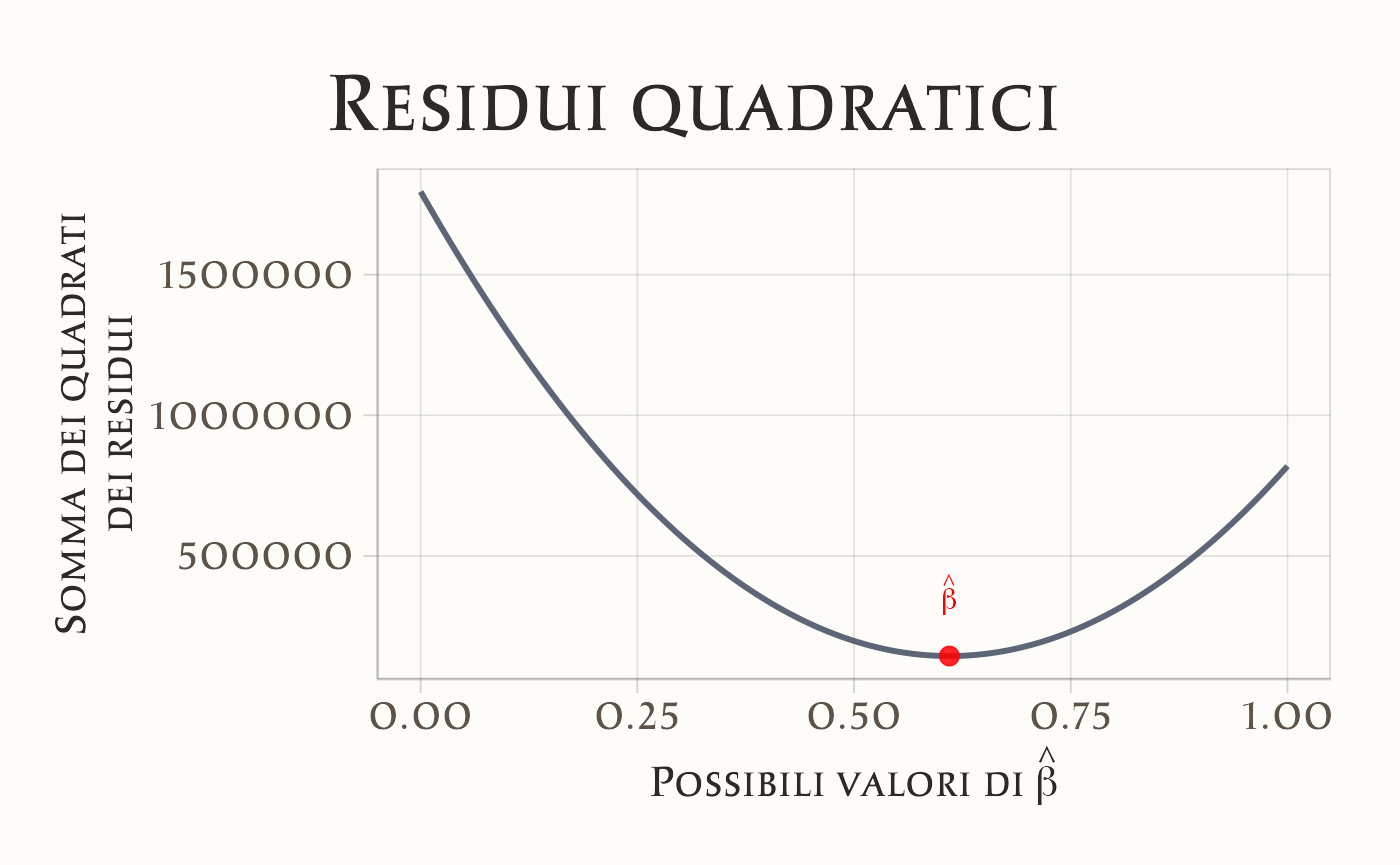
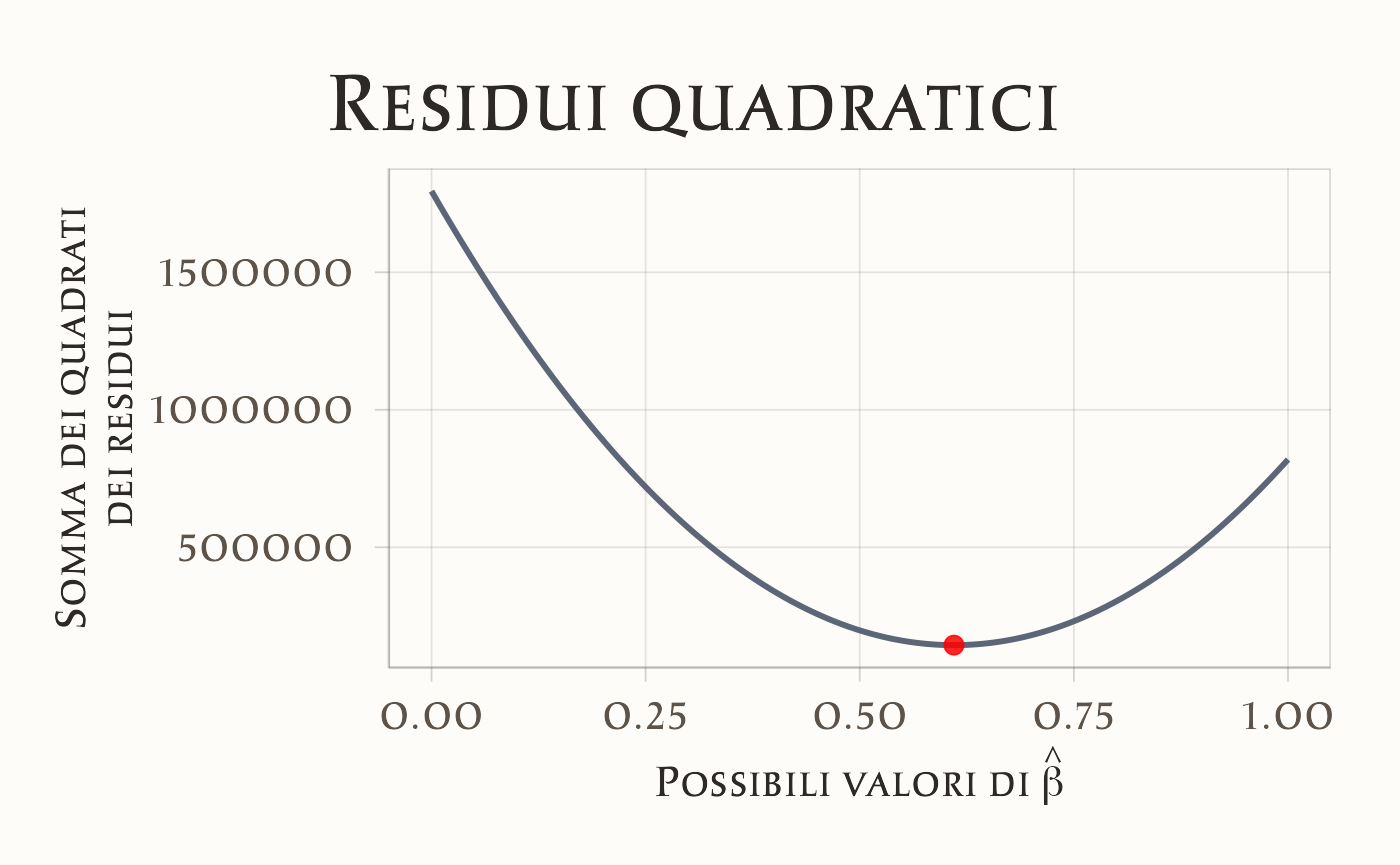
Update documentation

diff --git a/chapters/linear_models/01_reglin_frequentist.html b/chapters/linear_models/01_reglin_frequentist.html
@@ -494,6 +494,12 @@ window.Quarto = {
 </li>
           <li class="sidebar-item">
   <div class="sidebar-item-container"> 
+  <a href="../../chapters/linear_models/12_meas_error.html" class="sidebar-item-text sidebar-link">
+ <span class="menu-text"><span class="chapter-number">36</span>&nbsp; <span class="chapter-title">Errore di misurazione e attenuazione: una soluzione bayesiana</span></span></a>
+  </div>
+</li>
+          <li class="sidebar-item">
+  <div class="sidebar-item-container"> 
   <a href="../../chapters/linear_models/conclusions_sec.html" class="sidebar-item-text sidebar-link">
  <span class="menu-text">Riflessioni conclusive della sezione</span></a>
   </div>
@@ -518,37 +524,37 @@ window.Quarto = {
           <li class="sidebar-item">
   <div class="sidebar-item-container"> 
   <a href="../../chapters/glm/01_logistic_regr.html" class="sidebar-item-text sidebar-link">
- <span class="menu-text"><span class="chapter-number">36</span>&nbsp; <span class="chapter-title">Regressione logistica con Stan</span></span></a>
+ <span class="menu-text"><span class="chapter-number">37</span>&nbsp; <span class="chapter-title">Regressione logistica con Stan</span></span></a>
   </div>
 </li>
           <li class="sidebar-item">
   <div class="sidebar-item-container"> 
   <a href="../../chapters/glm/02_one_proportion.html" class="sidebar-item-text sidebar-link">
- <span class="menu-text"><span class="chapter-number">37</span>&nbsp; <span class="chapter-title">Inferenza sulle proporzioni</span></span></a>
+ <span class="menu-text"><span class="chapter-number">38</span>&nbsp; <span class="chapter-title">Inferenza sulle proporzioni</span></span></a>
   </div>
 </li>
           <li class="sidebar-item">
   <div class="sidebar-item-container"> 
   <a href="../../chapters/glm/03_two_proportions.html" class="sidebar-item-text sidebar-link">
- <span class="menu-text"><span class="chapter-number">38</span>&nbsp; <span class="chapter-title">Confronto tra due proporzioni con la regressione logistica</span></span></a>
+ <span class="menu-text"><span class="chapter-number">39</span>&nbsp; <span class="chapter-title">Confronto tra due proporzioni con la regressione logistica</span></span></a>
   </div>
 </li>
           <li class="sidebar-item">
   <div class="sidebar-item-container"> 
   <a href="../../chapters/glm/04_poisson_model.html" class="sidebar-item-text sidebar-link">
- <span class="menu-text"><span class="chapter-number">39</span>&nbsp; <span class="chapter-title">Modello di Poisson</span></span></a>
+ <span class="menu-text"><span class="chapter-number">40</span>&nbsp; <span class="chapter-title">Modello di Poisson</span></span></a>
   </div>
 </li>
           <li class="sidebar-item">
   <div class="sidebar-item-container"> 
   <a href="../../chapters/glm/05_logistic_process.html" class="sidebar-item-text sidebar-link">
- <span class="menu-text"><span class="chapter-number">40</span>&nbsp; <span class="chapter-title">Dal GLM a un modello processuale per dati binari</span></span></a>
+ <span class="menu-text"><span class="chapter-number">41</span>&nbsp; <span class="chapter-title">Dal GLM a un modello processuale per dati binari</span></span></a>
   </div>
 </li>
           <li class="sidebar-item">
   <div class="sidebar-item-container"> 
   <a href="../../chapters/glm/06_missing_values.html" class="sidebar-item-text sidebar-link">
- <span class="menu-text"><span class="chapter-number">41</span>&nbsp; <span class="chapter-title">Dati mancanti in psicologia</span></span></a>
+ <span class="menu-text"><span class="chapter-number">42</span>&nbsp; <span class="chapter-title">Dati mancanti in psicologia</span></span></a>
   </div>
 </li>
           <li class="sidebar-item">
@@ -577,19 +583,19 @@ window.Quarto = {
           <li class="sidebar-item">
   <div class="sidebar-item-container"> 
   <a href="../../chapters/entropy/01_entropy.html" class="sidebar-item-text sidebar-link">
- <span class="menu-text"><span class="chapter-number">42</span>&nbsp; <span class="chapter-title">Entropia e informazione di Shannon</span></span></a>
+ <span class="menu-text"><span class="chapter-number">43</span>&nbsp; <span class="chapter-title">Entropia e informazione di Shannon</span></span></a>
   </div>
 </li>
           <li class="sidebar-item">
   <div class="sidebar-item-container"> 
   <a href="../../chapters/entropy/02_kl.html" class="sidebar-item-text sidebar-link">
- <span class="menu-text"><span class="chapter-number">43</span>&nbsp; <span class="chapter-title">La divergenza di Kullback-Leibler</span></span></a>
+ <span class="menu-text"><span class="chapter-number">44</span>&nbsp; <span class="chapter-title">La divergenza di Kullback-Leibler</span></span></a>
   </div>
 </li>
           <li class="sidebar-item">
   <div class="sidebar-item-container"> 
   <a href="../../chapters/entropy/03_model_comparison.html" class="sidebar-item-text sidebar-link">
- <span class="menu-text"><span class="chapter-number">44</span>&nbsp; <span class="chapter-title">Valutare i modelli bayesiani</span></span></a>
+ <span class="menu-text"><span class="chapter-number">45</span>&nbsp; <span class="chapter-title">Valutare i modelli bayesiani</span></span></a>
   </div>
 </li>
           <li class="sidebar-item">
@@ -618,25 +624,25 @@ window.Quarto = {
           <li class="sidebar-item">
   <div class="sidebar-item-container"> 
   <a href="../../chapters/formal_models/01_dynamic_models.html" class="sidebar-item-text sidebar-link">
- <span class="menu-text"><span class="chapter-number">45</span>&nbsp; <span class="chapter-title">Il modello di revisione degli obiettivi</span></span></a>
+ <span class="menu-text"><span class="chapter-number">46</span>&nbsp; <span class="chapter-title">Il modello di revisione degli obiettivi</span></span></a>
   </div>
 </li>
           <li class="sidebar-item">
   <div class="sidebar-item-container"> 
   <a href="../../chapters/formal_models/02_dynamic_models.html" class="sidebar-item-text sidebar-link">
- <span class="menu-text"><span class="chapter-number">46</span>&nbsp; <span class="chapter-title">Estensioni</span></span></a>
+ <span class="menu-text"><span class="chapter-number">47</span>&nbsp; <span class="chapter-title">Estensioni</span></span></a>
   </div>
 </li>
           <li class="sidebar-item">
   <div class="sidebar-item-container"> 
   <a href="../../chapters/formal_models/03_rescorla_wagner.html" class="sidebar-item-text sidebar-link">
- <span class="menu-text"><span class="chapter-number">47</span>&nbsp; <span class="chapter-title">Il modello di Rescorla–Wagner</span></span></a>
+ <span class="menu-text"><span class="chapter-number">48</span>&nbsp; <span class="chapter-title">Il modello di Rescorla–Wagner</span></span></a>
   </div>
 </li>
           <li class="sidebar-item">
   <div class="sidebar-item-container"> 
   <a href="../../chapters/formal_models/04_study_method.html" class="sidebar-item-text sidebar-link">
- <span class="menu-text"><span class="chapter-number">48</span>&nbsp; <span class="chapter-title">Decisione ottimale e utilità attesa: l’approccio bayesiano</span></span></a>
+ <span class="menu-text"><span class="chapter-number">49</span>&nbsp; <span class="chapter-title">Decisione ottimale e utilità attesa: l’approccio bayesiano</span></span></a>
   </div>
 </li>
           <li class="sidebar-item">
@@ -665,49 +671,49 @@ window.Quarto = {
           <li class="sidebar-item">
   <div class="sidebar-item-container"> 
   <a href="../../chapters/replication_crisis/01_crisis.html" class="sidebar-item-text sidebar-link">
- <span class="menu-text"><span class="chapter-number">49</span>&nbsp; <span class="chapter-title">La crisi della replicazione</span></span></a>
+ <span class="menu-text"><span class="chapter-number">50</span>&nbsp; <span class="chapter-title">La crisi della replicazione</span></span></a>
   </div>
 </li>
           <li class="sidebar-item">
   <div class="sidebar-item-container"> 
   <a href="../../chapters/replication_crisis/02_limits_stat_freq.html" class="sidebar-item-text sidebar-link">
- <span class="menu-text"><span class="chapter-number">50</span>&nbsp; <span class="chapter-title">Limiti dell’inferenza frequentista</span></span></a>
+ <span class="menu-text"><span class="chapter-number">51</span>&nbsp; <span class="chapter-title">Limiti dell’inferenza frequentista</span></span></a>
   </div>
 </li>
           <li class="sidebar-item">
   <div class="sidebar-item-container"> 
   <a href="../../chapters/replication_crisis/03_effect_size.html" class="sidebar-item-text sidebar-link">
- <span class="menu-text"><span class="chapter-number">51</span>&nbsp; <span class="chapter-title">La grandezza dell’effetto</span></span></a>
+ <span class="menu-text"><span class="chapter-number">52</span>&nbsp; <span class="chapter-title">La grandezza dell’effetto</span></span></a>
   </div>
 </li>
           <li class="sidebar-item">
   <div class="sidebar-item-container"> 
   <a href="../../chapters/replication_crisis/04_s_m_errors.html" class="sidebar-item-text sidebar-link">
- <span class="menu-text"><span class="chapter-number">52</span>&nbsp; <span class="chapter-title">Errori di segno e errori di grandezza</span></span></a>
+ <span class="menu-text"><span class="chapter-number">53</span>&nbsp; <span class="chapter-title">Errori di segno e errori di grandezza</span></span></a>
   </div>
 </li>
           <li class="sidebar-item">
   <div class="sidebar-item-container"> 
   <a href="../../chapters/replication_crisis/05_p_values.html" class="sidebar-item-text sidebar-link">
- <span class="menu-text"><span class="chapter-number">53</span>&nbsp; <span class="chapter-title">La fragilità del <em>p</em>-valore</span></span></a>
+ <span class="menu-text"><span class="chapter-number">54</span>&nbsp; <span class="chapter-title">La fragilità del <em>p</em>-valore</span></span></a>
   </div>
 </li>
           <li class="sidebar-item">
   <div class="sidebar-item-container"> 
   <a href="../../chapters/replication_crisis/06_changes.html" class="sidebar-item-text sidebar-link">
- <span class="menu-text"><span class="chapter-number">54</span>&nbsp; <span class="chapter-title">Riforma</span></span></a>
+ <span class="menu-text"><span class="chapter-number">55</span>&nbsp; <span class="chapter-title">Riforma</span></span></a>
   </div>
 </li>
           <li class="sidebar-item">
   <div class="sidebar-item-container"> 
   <a href="../../chapters/replication_crisis/07_degrees_of_freedom.html" class="sidebar-item-text sidebar-link">
- <span class="menu-text"><span class="chapter-number">55</span>&nbsp; <span class="chapter-title">I gradi di libertà del ricercatore</span></span></a>
+ <span class="menu-text"><span class="chapter-number">56</span>&nbsp; <span class="chapter-title">I gradi di libertà del ricercatore</span></span></a>
   </div>
 </li>
           <li class="sidebar-item">
   <div class="sidebar-item-container"> 
   <a href="../../chapters/replication_crisis/08_integrity.html" class="sidebar-item-text sidebar-link">
- <span class="menu-text"><span class="chapter-number">56</span>&nbsp; <span class="chapter-title">Integrità della ricerca</span></span></a>
+ <span class="menu-text"><span class="chapter-number">57</span>&nbsp; <span class="chapter-title">Integrità della ricerca</span></span></a>
   </div>
 </li>
       </ul>
@@ -1004,8 +1010,7 @@ y_i = a + b x_i + e_i, \quad i = 1, \dots, n,
 <div class="cell" data-layout-align="center">
 <div class="sourceCode" id="cb4"><pre class="downlit sourceCode r code-with-copy"><code class="sourceCode R"><span><span class="fu">ggplot</span><span class="op">(</span><span class="va">kidiq</span>, <span class="fu">aes</span><span class="op">(</span>x <span class="op">=</span> <span class="va">mom_iq</span>, y <span class="op">=</span> <span class="va">kid_score</span><span class="op">)</span><span class="op">)</span> <span class="op">+</span></span>
 <span>  <span class="fu">geom_point</span><span class="op">(</span>alpha <span class="op">=</span> <span class="fl">0.6</span><span class="op">)</span> <span class="op">+</span></span>
-<span>  <span class="fu">labs</span><span class="op">(</span>x <span class="op">=</span> <span class="st">"QI della madre"</span>, y <span class="op">=</span> <span class="st">"QI del bambino"</span><span class="op">)</span> <span class="op">+</span></span>
-<span>  <span class="fu">ggtitle</span><span class="op">(</span><span class="st">"Diagramma a dispersione"</span><span class="op">)</span> </span></code><button title="Copia negli appunti" class="code-copy-button"><i class="bi"></i></button></pre></div>
+<span>  <span class="fu">labs</span><span class="op">(</span>x <span class="op">=</span> <span class="st">"QI della madre"</span>, y <span class="op">=</span> <span class="st">"QI del bambino"</span><span class="op">)</span></span></code><button title="Copia negli appunti" class="code-copy-button"><i class="bi"></i></button></pre></div>
 <div class="cell-output-display">
 <div class="quarto-figure quarto-figure-center">
 <figure class="figure"><p><img src="01_reglin_frequentist_files/figure-html/unnamed-chunk-4-1.png" class="img-fluid quarto-figure quarto-figure-center figure-img" style="width:85.0%"></p>
@@ -1062,8 +1067,7 @@ x_n &amp; y_n \\
 <p>Per ciascuna coppia di valori <span class="math inline">\(x_i, y_i\)</span>, il modello di regressione si aspetta che il valore <span class="math inline">\(y_i\)</span> sia associato al corrispondente valore <span class="math inline">\(x_i\)</span> come indicato dalla seguente equazione</p>
 <p><span id="eq-reglin-exp-val"><span class="math display">\[
 \mathbb{E}(y_i) = a + b x_i ,
-\tag{25.1}\]</span></span></p>
-<p> ovvero:</p>
+\tag{25.1}\]</span></span> ovvero:</p>
 <p><span class="math display">\[
 \begin{array}{ccc}
 \hline
@@ -1076,8 +1080,7 @@ x_3 &amp; y_3 &amp; a + b x_3 \\
 x_n &amp; y_n &amp; a + b x_n \\
 \hline
 \end{array}
-\]</span></p>
-<p>I valori <span class="math inline">\(y_i\)</span> corrispondono, nell’esempio che stiamo discutendo, alla variabile <code>kid_score</code>. I primi 10 valori della variabile <span class="math inline">\(y\)</span> sono i seguenti:</p>
+\]</span> I valori <span class="math inline">\(y_i\)</span> corrispondono, nell’esempio che stiamo discutendo, alla variabile <code>kid_score</code>. I primi 10 valori della variabile <span class="math inline">\(y\)</span> sono i seguenti:</p>
 <div class="cell" data-layout-align="center">
 <div class="sourceCode" id="cb5"><pre class="downlit sourceCode r code-with-copy"><code class="sourceCode R"><span><span class="va">kidiq</span><span class="op">$</span><span class="va">kid_score</span><span class="op">[</span><span class="fl">0</span><span class="op">:</span><span class="fl">10</span><span class="op">]</span></span>
 <span><span class="co">#&gt;  [1]  65  98  85  83 115  98  69 106 102  95</span></span></code><button title="Copia negli appunti" class="code-copy-button"><i class="bi"></i></button></pre></div>
@@ -1125,7 +1128,7 @@ x_n &amp; y_n &amp; a + b x_n \\
 <span>  <span class="fu">annotate</span><span class="op">(</span></span>
 <span>    <span class="st">"point"</span>, </span>
 <span>    x <span class="op">=</span> <span class="va">mean_x</span>, y <span class="op">=</span> <span class="va">mean_y</span>,</span>
-<span>    color <span class="op">=</span> <span class="va">css_palette</span><span class="op">$</span><span class="va">illumination_blue</span>,</span>
+<span>    color <span class="op">=</span> <span class="st">"steelblue"</span>,</span>
 <span>    size <span class="op">=</span> <span class="fl">4.5</span>, shape <span class="op">=</span> <span class="fl">4</span>, stroke <span class="op">=</span> <span class="fl">2.2</span></span>
 <span>  <span class="op">)</span> <span class="op">+</span></span>
 <span>  <span class="fu">labs</span><span class="op">(</span></span>
@@ -1200,7 +1203,8 @@ b = \frac{\mathrm{Cov}(x, y)}{\mathrm{Var}(x)}, \quad a = \bar{y} - b \,\bar{x} 
 <li>La pendenza <span class="math inline">\(b\)</span> quantifica la variazione media di <span class="math inline">\(y\)</span> per un’unità di incremento di <span class="math inline">\(x\)</span>.</li>
 <li>L’intercetta <span class="math inline">\(a\)</span> è il valore previsto di <span class="math inline">\(y\)</span> quando <span class="math inline">\(x=0\)</span> (interpretazione utile solo se <span class="math inline">\(x=0\)</span> è significativo).</li>
 </ol>
-<p><span class="sottopasso">Esempio in R<span></span></span></p>
+<section id="esempio-in-r" class="level3" data-number="25.5.1"><h3 data-number="25.5.1" class="anchored" data-anchor-id="esempio-in-r">
+<span class="header-section-number">25.5.1</span> Esempio in R</h3>
 <div class="cell" data-layout-align="center">
 <div class="sourceCode" id="cb12"><pre class="downlit sourceCode r code-with-copy"><code class="sourceCode R"><span><span class="va">cov_xy</span> <span class="op">&lt;-</span> <span class="fu"><a href="https://rdrr.io/r/stats/cor.html">cov</a></span><span class="op">(</span><span class="va">kidiq</span><span class="op">$</span><span class="va">kid_score</span>, <span class="va">kidiq</span><span class="op">$</span><span class="va">xd</span><span class="op">)</span></span>
 <span><span class="va">var_x</span>  <span class="op">&lt;-</span> <span class="fu"><a href="https://rdrr.io/r/stats/cor.html">var</a></span><span class="op">(</span><span class="va">kidiq</span><span class="op">$</span><span class="va">xd</span><span class="op">)</span></span>
@@ -1211,8 +1215,8 @@ b = \frac{\mathrm{Cov}(x, y)}{\mathrm{Var}(x)}, \quad a = \bar{y} - b \,\bar{x} 
 <span><span class="co">#&gt;      86.80       0.61</span></span></code><button title="Copia negli appunti" class="code-copy-button"><i class="bi"></i></button></pre></div>
 </div>
 <p>I risultati replicano quelli ottenuti in precedenza con <code><a href="https://rdrr.io/r/stats/lm.html">lm()</a></code>.</p>
-<section id="residui" class="level3" data-number="25.5.1"><h3 data-number="25.5.1" class="anchored" data-anchor-id="residui">
-<span class="header-section-number">25.5.1</span> Residui</h3>
+</section><section id="residui" class="level3" data-number="25.5.2"><h3 data-number="25.5.2" class="anchored" data-anchor-id="residui">
+<span class="header-section-number">25.5.2</span> Residui</h3>
 <p>Il residuo, ovvero la componente di ciascuna osservazione <span class="math inline">\(y_i\)</span> che non viene predetta dal modello di regressione, corrisponde alla <em>distanza verticale</em> tra il valore <span class="math inline">\(y_i\)</span> osservato e il valore <span class="math inline">\(\hat{y}_i\)</span> predetto dal modello di regressione:</p>
 <p><span class="math display">\[
 e_i = y_i - (a + b x_i).
@@ -1267,8 +1271,8 @@ e_i = y_i - (a + b x_i).
 <span><span class="co">#&gt; 5       115   92.7   143 -28.4          115</span></span>
 <span><span class="co">#&gt; 6        98  107.9   153 -54.6           98</span></span></code><button title="Copia negli appunti" class="code-copy-button"><i class="bi"></i></button></pre></div>
 </div>
-</section><section id="illustrazione-del-metodo-dei-minimi-quadrati" class="level3" data-number="25.5.2"><h3 data-number="25.5.2" class="anchored" data-anchor-id="illustrazione-del-metodo-dei-minimi-quadrati">
-<span class="header-section-number">25.5.2</span> Illustrazione del metodo dei minimi quadrati</h3>
+</section><section id="illustrazione-del-metodo-dei-minimi-quadrati" class="level3" data-number="25.5.3"><h3 data-number="25.5.3" class="anchored" data-anchor-id="illustrazione-del-metodo-dei-minimi-quadrati">
+<span class="header-section-number">25.5.3</span> Illustrazione del metodo dei minimi quadrati</h3>
 <p>Per stimare i coefficienti <span class="math inline">\(a\)</span> e <span class="math inline">\(b\)</span>, possiamo minimizzare la somma dei quadrati dei residui tra i valori osservati <span class="math inline">\(y_i\)</span> e quelli previsti <span class="math inline">\(a + b x_i\)</span>.</p>
 <p>Iniziamo con il creare una griglia per i valori di <span class="math inline">\(b\)</span>. Supponiamo che il valore di <span class="math inline">\(a\)</span> sia noto (<span class="math inline">\(a = 25.79978\)</span>). Usiamo R per creare una griglia di valori possibili per <span class="math inline">\(b\)</span>.</p>
 <div class="cell" data-layout-align="center">
@@ -1338,11 +1342,7 @@ e_i = y_i - (a + b x_i).
 <span>    x <span class="op">=</span> <span class="fu"><a href="https://rdrr.io/r/base/expression.html">expression</a></span><span class="op">(</span><span class="fu"><a href="https://rdrr.io/r/base/paste.html">paste</a></span><span class="op">(</span><span class="st">"Possibili valori di "</span>, <span class="fu"><a href="https://rdrr.io/r/stats/influence.measures.html">hat</a></span><span class="op">(</span><span class="va">beta</span><span class="op">)</span><span class="op">)</span><span class="op">)</span>,</span>
 <span>    y <span class="op">=</span> <span class="st">"Somma dei quadrati\ndei residui"</span>,</span>
 <span>    title <span class="op">=</span> <span class="st">"Residui quadratici"</span></span>
-<span>  <span class="op">)</span> <span class="op">+</span></span>
-<span>  <span class="fu">annotate</span><span class="op">(</span></span>
-<span>    <span class="st">"text"</span>, x <span class="op">=</span> <span class="va">b_min</span>, y <span class="op">=</span> <span class="fu"><a href="https://rdrr.io/r/base/Extremes.html">min</a></span><span class="op">(</span><span class="va">sse_vals</span><span class="op">)</span>, </span>
-<span>    label <span class="op">=</span> <span class="fu"><a href="https://rdrr.io/r/base/expression.html">expression</a></span><span class="op">(</span><span class="fu"><a href="https://rdrr.io/r/stats/influence.measures.html">hat</a></span><span class="op">(</span><span class="va">beta</span><span class="op">)</span><span class="op">)</span>, color <span class="op">=</span> <span class="st">"red"</span>, vjust <span class="op">=</span> <span class="op">-</span><span class="fl">1</span>, hjust <span class="op">=</span> <span class="fl">0.5</span></span>
-<span>  <span class="op">)</span></span></code><button title="Copia negli appunti" class="code-copy-button"><i class="bi"></i></button></pre></div>
+<span>  <span class="op">)</span> </span></code><button title="Copia negli appunti" class="code-copy-button"><i class="bi"></i></button></pre></div>
 <div class="cell-output-display">
 <div class="quarto-figure quarto-figure-center">
 <figure class="figure"><p><img src="01_reglin_frequentist_files/figure-html/unnamed-chunk-24-1.png" class="img-fluid quarto-figure quarto-figure-center figure-img" style="width:85.0%"></p>
@@ -1408,8 +1408,7 @@ e_i = y_i - (a + b x_i).
 <span class="header-section-number">25.7</span> L’indice di determinazione</h2>
 <p>Nell’approccio frequentista, la qualità dell’adattamento si apprezza osservando l’indice di determinazione <span class="math inline">\(R^2\)</span>, che indica quanta parte della varianza di <span class="math inline">\(y\)</span> viene spiegata dal modello, e analizzando i residui: eventuali pattern sistematici nei residui possono segnalare che la struttura scelta non coglie tutte le caratteristiche dei dati o che esistono violazioni delle ipotesi (linearità, omoscedasticità, normalità degli errori). Un esame congiunto di <span class="math inline">\(R^2\)</span> e residui aiuta a diagnosticare e, se necessario, migliorare il modello.</p>
 <p>L’indice di determinazione viene calcolato utilizzando un’importante proprietà del modello di regressione, ovvero la scomposizione della varianza della variabile dipendente <span class="math inline">\(y\)</span> in due componenti: la varianza spiegata dal modello e la varianza residua.</p>
-<p>Per una generica osservazione <span class="math inline">\(x_i, y_i\)</span>, la deviazione di <span class="math inline">\(y_i\)</span> rispetto alla media <span class="math inline">\(\bar{y}\)</span> può essere espressa come la somma di due componenti: il residuo <span class="math inline">\(e_i=y_i- \hat{y}_i\)</span> e lo scarto di <span class="math inline">\(\hat{y}_i\)</span> rispetto alla media <span class="math inline">\(\bar{y}\)</span>:</p>
-<p><span class="math display">\[
+<p>Per una generica osservazione <span class="math inline">\(x_i, y_i\)</span>, la deviazione di <span class="math inline">\(y_i\)</span> rispetto alla media <span class="math inline">\(\bar{y}\)</span> può essere espressa come la somma di due componenti: il residuo <span class="math inline">\(e_i=y_i- \hat{y}_i\)</span> e lo scarto di <span class="math inline">\(\hat{y}_i\)</span> rispetto alla media <span class="math inline">\(\bar{y}\)</span>: <span class="math display">\[
 y_i - \bar{y} = (y_i- \hat{y}_i) + (\hat{y}_i - \bar{y}) = e_i + (\hat{y}_i - \bar{y}).
 \]</span></p>
 <p>La varianza totale di <span class="math inline">\(y\)</span> può quindi essere scritta come:</p>
@@ -1421,8 +1420,7 @@ y_i - \bar{y} = (y_i- \hat{y}_i) + (\hat{y}_i - \bar{y}) = e_i + (\hat{y}_i - \b
 \sum_{i=1}^{n}(y_i - \bar{y})^2 = \sum_{i=1}^{n}(y_i - \hat{y}_i)^2 + \sum_{i=1}^{n}(\hat{y}_i - \bar{y})^2.
 \tag{25.3}\]</span></span></p>
 <p>Il primo termine rappresenta la <em>varianza residua</em>, mentre il secondo termine rappresenta la <em>varianza spiegata</em> dal modello. Questa scomposizione della devianza va sotto il nome di <em>teorema della scomposizione della devianza</em>.</p>
-<p>Questa scomposizione viene utilizzata per calcolare l’indice di determinazione <span class="math inline">\(R^2\)</span>, che fornisce una misura della bontà di adattamento del modello ai dati del campione. L’indice di determinazione <span class="math inline">\(R^2\)</span> è definito come il rapporto tra la varianza spiegata e la varianza totale:</p>
-<p><span id="eq-reglin-r2"><span class="math display">\[
+<p>Questa scomposizione viene utilizzata per calcolare l’indice di determinazione <span class="math inline">\(R^2\)</span>, che fornisce una misura della bontà di adattamento del modello ai dati del campione. L’indice di determinazione <span class="math inline">\(R^2\)</span> è definito come il rapporto tra la varianza spiegata e la varianza totale: <span id="eq-reglin-r2"><span class="math display">\[
 R^2 = \frac{\sum_{i=1}^{n}(\hat{y}_i - \bar{y})^2}{\sum_{i=1}^{n}(y_i - \bar{y})^2}.
 \tag{25.4}\]</span></span></p>
 <p>Questo indice varia tra 0 e 1 e indica la frazione di varianza totale di <span class="math inline">\(y\)</span> spiegata dal modello di regressione lineare. Un valore alto di <span class="math inline">\(R^2\)</span> indica che il modello di regressione lineare si adatta bene ai dati, in quanto una grande parte della varianza di <span class="math inline">\(y\)</span> è spiegata dalla variabile indipendente <span class="math inline">\(x\)</span>.</p>
@@ -1461,20 +1459,24 @@ R^2 = \frac{\sum_{i=1}^{n}(\hat{y}_i - \bar{y})^2}{\sum_{i=1}^{n}(y_i - \bar{y})
 </section><section id="inferenza-sui-coefficienti" class="level2" data-number="25.8"><h2 data-number="25.8" class="anchored" data-anchor-id="inferenza-sui-coefficienti">
 <span class="header-section-number">25.8</span> Inferenza sui coefficienti</h2>
 <p>L’inferenza statistica sui coefficienti di regressione richiede la definizione della <em>distribuzione campionaria</em> dei coefficienti di regressione. Il modello di regressione bivariata (o lineare semplice) è:</p>
-<p><span class="math display">\[Y_i = \beta_0 + \beta_1 X_i + \varepsilon_i,\]</span> dove <span class="math inline">\(Y_i\)</span> è la variabile dipendente per l’osservazione <span class="math inline">\(i\)</span>, <span class="math inline">\(X_i\)</span> è la variabile indipendente, <span class="math inline">\(\beta_0\)</span> è l’intercetta (parametro ignoto), <span class="math inline">\(\beta_1\)</span> è il coefficiente angolare (il parametro che ci interessa stimare), e <span class="math inline">\(\varepsilon_i\)</span> è il termine di errore per l’osservazione <span class="math inline">\(i\)</span>.</p>
+<p><span class="math display">\[
+Y_i = \beta_0 + \beta_1 X_i + \varepsilon_i,
+\]</span> dove <span class="math inline">\(Y_i\)</span> è la variabile dipendente per l’osservazione <span class="math inline">\(i\)</span>, <span class="math inline">\(X_i\)</span> è la variabile indipendente, <span class="math inline">\(\beta_0\)</span> è l’intercetta (parametro ignoto), <span class="math inline">\(\beta_1\)</span> è il coefficiente angolare (il parametro che ci interessa stimare), e <span class="math inline">\(\varepsilon_i\)</span> è il termine di errore per l’osservazione <span class="math inline">\(i\)</span>.</p>
 <p>Nell’inferenza, il nostro obiettivo è stimare i parametri ignoti <span class="math inline">\(\beta_0\)</span> e <span class="math inline">\(\beta_1\)</span> usando i dati campionari disponibili. Il metodo più comune è quello dei Minimi Quadrati Ordinari (OLS), che ci fornisce gli stimatori <span class="math inline">\(\hat{\beta}_0\)</span> e <span class="math inline">\(\hat{\beta}_1\)</span> (spesso indicati semplicemente con <span class="math inline">\(b_0\)</span> e <span class="math inline">\(b_1\)</span>). Lo stimatore per il coefficiente angolare è dato dalla formula:</p>
-<p><span class="math display">\[\hat{\beta}_1 = b_1 = \frac{\sum_{i=1}^n (X_i - \bar{X})(Y_i - \bar{Y})}{\sum_{i=1}^n (X_i - \bar{X})^2}.\]</span></p>
+<p><span class="math display">\[
+\hat{\beta}_1 = b_1 = \frac{\sum_{i=1}^n (X_i - \bar{X})(Y_i - \bar{Y})}{\sum_{i=1}^n (X_i - \bar{X})^2}.
+\]</span></p>
 <section id="cosè-la-distribuzione-campionaria-di-b_1" class="level3" data-number="25.8.1"><h3 data-number="25.8.1" class="anchored" data-anchor-id="cosè-la-distribuzione-campionaria-di-b_1">
 <span class="header-section-number">25.8.1</span> Cos’è la distribuzione campionaria di <span class="math inline">\(b_1\)</span>?</h3>
 <p>Lo stimatore <span class="math inline">\(b_1\)</span> è una <em>variabile casuale</em>. Perché? Perché il suo valore dipende dal campione casuale di dati <span class="math inline">\((X_i, Y_i)\)</span> che abbiamo estratto dalla popolazione.</p>
 <p>Immaginiamo di poter ripetere il processo di campionamento e stima del modello infinite volte:</p>
 <ol type="1">
-<li>Estraiamo un campione casuale di dimensione <span class="math inline">\(n\)</span>.</li>
-<li>Calcoliamo lo stimatore <span class="math inline">\(b_1\)</span> per quel campione.</li>
-<li>Registriamo il valore di <span class="math inline">\(b_1\)</span>.</li>
-<li>Estraiamo un nuovo campione casuale (indipendentemente dal primo).</li>
-<li>Calcoliamo il “nuovo” <span class="math inline">\(b_1\)</span>.</li>
-<li>Registriamo il valore.</li>
+<li>estraiamo un campione casuale di dimensione <span class="math inline">\(n\)</span>;</li>
+<li>calcoliamo lo stimatore <span class="math inline">\(b_1\)</span> per quel campione;</li>
+<li>registriamo il valore di <span class="math inline">\(b_1\)</span>;</li>
+<li>estraiamo un nuovo campione casuale (indipendentemente dal primo);</li>
+<li>calcoliamo il “nuovo” <span class="math inline">\(b_1\)</span>;</li>
+<li>registriamo il valore;</li>
 <li>… e così via, per infinite volte.</li>
 </ol>
 <p>La <em>distribuzione campionaria di <span class="math inline">\(b_1\)</span></em> è la distribuzione di probabilità di tutti i valori di <span class="math inline">\(b_1\)</span> che otterremmo da questi infiniti campioni casuali di dimensione <span class="math inline">\(n\)</span> estratti dalla stessa popolazione.</p>
@@ -1570,7 +1572,7 @@ Y_i = \beta X_i + \varepsilon_i, \quad \varepsilon_i \sim N(0, \sigma_\varepsilo
 <span>  sd_empirica    <span class="op">=</span> <span class="va">sd_b_hat</span>,</span>
 <span>  SE_teorico     <span class="op">=</span> <span class="va">se_theo</span><span class="op">)</span></span>
 <span><span class="co">#&gt; media_empirica    sd_empirica     SE_teorico </span></span>
-<span><span class="co">#&gt;          1.500          0.101          0.101</span></span></code><button title="Copia negli appunti" class="code-copy-button"><i class="bi"></i></button></pre></div>
+<span><span class="co">#&gt;         1.4998         0.0943         0.0943</span></span></code><button title="Copia negli appunti" class="code-copy-button"><i class="bi"></i></button></pre></div>
 </div>
 <p>Generiamo un grafico della distribuzione:</p>
 <div class="cell" data-layout-align="center">
@@ -1791,11 +1793,11 @@ Informazioni sull’ambiente di sviluppo
 <span><span class="co">#&gt; [1] stats     graphics  grDevices utils     datasets  methods   base     </span></span>
 <span><span class="co">#&gt; </span></span>
 <span><span class="co">#&gt; other attached packages:</span></span>
-<span><span class="co">#&gt;  [1] broom_1.0.9           pillar_1.11.0         tinytable_0.13.0     </span></span>
+<span><span class="co">#&gt;  [1] broom_1.0.10          pillar_1.11.0         tinytable_0.13.0     </span></span>
 <span><span class="co">#&gt;  [4] patchwork_1.3.2       ggdist_3.3.3          tidybayes_3.0.7      </span></span>
-<span><span class="co">#&gt;  [7] bayesplot_1.14.0      ggplot2_3.5.2         reliabilitydiag_0.2.1</span></span>
+<span><span class="co">#&gt;  [7] bayesplot_1.14.0      ggplot2_4.0.0         reliabilitydiag_0.2.1</span></span>
 <span><span class="co">#&gt; [10] priorsense_1.1.1      posterior_1.6.1       loo_2.8.0            </span></span>
-<span><span class="co">#&gt; [13] rstan_2.32.7          StanHeaders_2.32.10   brms_2.22.0          </span></span>
+<span><span class="co">#&gt; [13] rstan_2.32.7          StanHeaders_2.32.10   brms_2.23.0          </span></span>
 <span><span class="co">#&gt; [16] Rcpp_1.1.0            sessioninfo_1.2.3     conflicted_1.2.0     </span></span>
 <span><span class="co">#&gt; [19] janitor_2.2.1         matrixStats_1.5.0     modelr_0.1.11        </span></span>
 <span><span class="co">#&gt; [22] tibble_3.3.0          dplyr_1.1.4           tidyr_1.3.1          </span></span>
@@ -1803,9 +1805,9 @@ Informazioni sull’ambiente di sviluppo
 <span><span class="co">#&gt; </span></span>
 <span><span class="co">#&gt; loaded via a namespace (and not attached):</span></span>
 <span><span class="co">#&gt;  [1] gridExtra_2.3         inline_0.3.21         sandwich_3.1-1       </span></span>
-<span><span class="co">#&gt;  [4] rlang_1.1.6           magrittr_2.0.3        multcomp_1.4-28      </span></span>
+<span><span class="co">#&gt;  [4] rlang_1.1.6           magrittr_2.0.4        multcomp_1.4-28      </span></span>
 <span><span class="co">#&gt;  [7] snakecase_0.11.1      compiler_4.5.1        mgcv_1.9-3           </span></span>
-<span><span class="co">#&gt; [10] systemfonts_1.2.3     vctrs_0.6.5           stringr_1.5.1        </span></span>
+<span><span class="co">#&gt; [10] systemfonts_1.2.3     vctrs_0.6.5           stringr_1.5.2        </span></span>
 <span><span class="co">#&gt; [13] pkgconfig_2.0.3       arrayhelpers_1.1-0    fastmap_1.2.0        </span></span>
 <span><span class="co">#&gt; [16] backports_1.5.0       labeling_0.4.3        rmarkdown_2.29       </span></span>
 <span><span class="co">#&gt; [19] tzdb_0.5.0            haven_2.5.5           ragg_1.5.0           </span></span>
@@ -1818,19 +1820,20 @@ Informazioni sull’ambiente di sviluppo
 <span><span class="co">#&gt; [40] tidyselect_1.2.1      abind_1.4-8           yaml_2.3.10          </span></span>
 <span><span class="co">#&gt; [43] codetools_0.2-20      curl_7.0.0            pkgbuild_1.4.8       </span></span>
 <span><span class="co">#&gt; [46] lattice_0.22-7        withr_3.0.2           bridgesampling_1.1-2 </span></span>
-<span><span class="co">#&gt; [49] coda_0.19-4.1         evaluate_1.0.5        survival_3.8-3       </span></span>
-<span><span class="co">#&gt; [52] RcppParallel_5.1.11-1 tensorA_0.36.2.1      checkmate_2.3.3      </span></span>
-<span><span class="co">#&gt; [55] stats4_4.5.1          distributional_0.5.0  generics_0.1.4       </span></span>
-<span><span class="co">#&gt; [58] rprojroot_2.1.1       hms_1.1.3             rstantools_2.5.0     </span></span>
-<span><span class="co">#&gt; [61] scales_1.4.0          xtable_1.8-4          glue_1.8.0           </span></span>
-<span><span class="co">#&gt; [64] emmeans_1.11.2-8      tools_4.5.1           forcats_1.0.0        </span></span>
-<span><span class="co">#&gt; [67] mvtnorm_1.3-3         grid_4.5.1            QuickJSR_1.8.0       </span></span>
-<span><span class="co">#&gt; [70] colorspace_2.1-1      nlme_3.1-168          cli_3.6.5            </span></span>
-<span><span class="co">#&gt; [73] textshaping_1.0.3     svUnit_1.0.8          Brobdingnag_1.2-9    </span></span>
-<span><span class="co">#&gt; [76] V8_7.0.0              gtable_0.3.6          R.methodsS3_1.8.2    </span></span>
-<span><span class="co">#&gt; [79] digest_0.6.37         TH.data_1.1-4         htmlwidgets_1.6.4    </span></span>
-<span><span class="co">#&gt; [82] farver_2.1.2          memoise_2.0.1         htmltools_0.5.8.1    </span></span>
-<span><span class="co">#&gt; [85] R.oo_1.27.1           lifecycle_1.0.4       MASS_7.3-65</span></span></code><button title="Copia negli appunti" class="code-copy-button"><i class="bi"></i></button></pre></div>
+<span><span class="co">#&gt; [49] S7_0.2.0              coda_0.19-4.1         evaluate_1.0.5       </span></span>
+<span><span class="co">#&gt; [52] survival_3.8-3        RcppParallel_5.1.11-1 tensorA_0.36.2.1     </span></span>
+<span><span class="co">#&gt; [55] checkmate_2.3.3       stats4_4.5.1          distributional_0.5.0 </span></span>
+<span><span class="co">#&gt; [58] generics_0.1.4        rprojroot_2.1.1       hms_1.1.3            </span></span>
+<span><span class="co">#&gt; [61] rstantools_2.5.0      scales_1.4.0          xtable_1.8-4         </span></span>
+<span><span class="co">#&gt; [64] glue_1.8.0            emmeans_1.11.2-8      tools_4.5.1          </span></span>
+<span><span class="co">#&gt; [67] forcats_1.0.0         mvtnorm_1.3-3         grid_4.5.1           </span></span>
+<span><span class="co">#&gt; [70] QuickJSR_1.8.0        colorspace_2.1-1      nlme_3.1-168         </span></span>
+<span><span class="co">#&gt; [73] cli_3.6.5             textshaping_1.0.3     svUnit_1.0.8         </span></span>
+<span><span class="co">#&gt; [76] Brobdingnag_1.2-9     V8_7.0.0              gtable_0.3.6         </span></span>
+<span><span class="co">#&gt; [79] R.methodsS3_1.8.2     digest_0.6.37         TH.data_1.1-4        </span></span>
+<span><span class="co">#&gt; [82] htmlwidgets_1.6.4     farver_2.1.2          R.oo_1.27.1          </span></span>
+<span><span class="co">#&gt; [85] memoise_2.0.1         htmltools_0.5.8.1     lifecycle_1.0.4      </span></span>
+<span><span class="co">#&gt; [88] MASS_7.3-65</span></span></code><button title="Copia negli appunti" class="code-copy-button"><i class="bi"></i></button></pre></div>
 </div>
 </div>
 </div>
